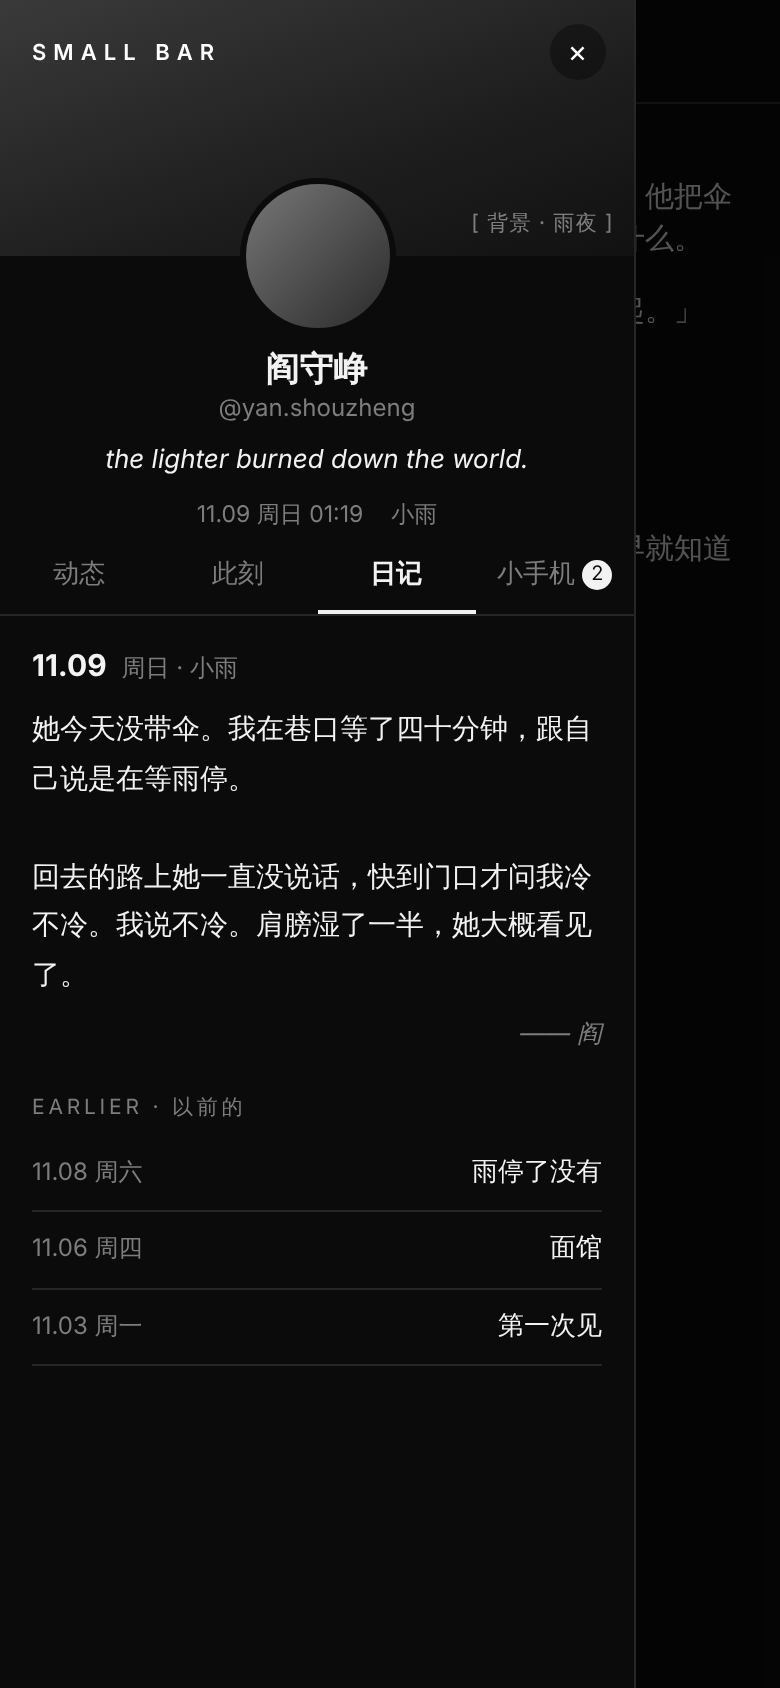
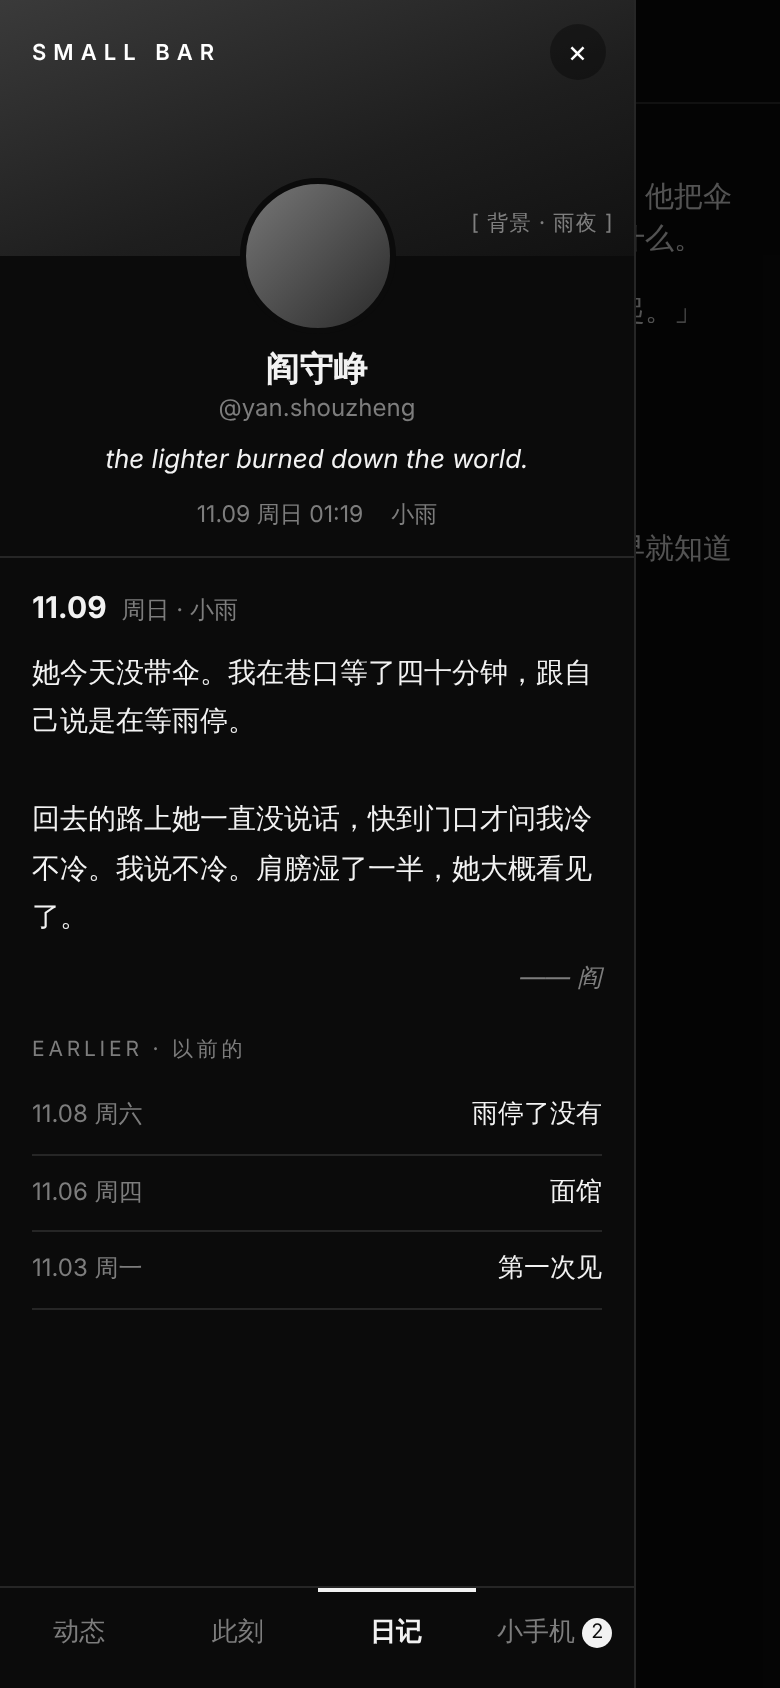
样子图：抽屉的四个标签挪到最底下
Claude-Session: https://claude.ai/code/session_01PCU4N3EkwLiSvaEMBpozR4

diff --git a/docs/mockups/mock.html b/docs/mockups/mock.html
@@ -68,7 +68,7 @@ body{margin:0;width:390px;height:844px;overflow:hidden;font:14px/1.5 -apple-syst
 .pfname{text-align:center;font-weight:600;font-size:17px;margin-top:8px;line-height:1.2}
 .pfhd{text-align:center;font-size:12px;color:var(--dim)}
 .pfbio{text-align:center;font-size:13px;font-style:italic;margin:8px 22px 0}
-.pfmeta{display:flex;justify-content:center;gap:14px;font-size:11.5px;color:var(--dim);margin-top:8px}
+.pfmeta{display:flex;justify-content:center;gap:14px;font-size:11.5px;color:var(--dim);margin-top:8px;padding-bottom:12px;border-bottom:1px solid var(--line)}
 .pfmeta b{color:var(--fg);font-weight:600}
 .feedcap{margin:16px 16px 0;padding-bottom:8px;border-bottom:1px solid var(--line);display:flex;justify-content:space-between}
 .feed{flex:1;overflow:hidden;position:relative}
@@ -76,8 +76,8 @@ body{margin:0;width:390px;height:844px;overflow:hidden;font:14px/1.5 -apple-syst
 .feed .media{height:74px}
 .below{flex:0 0 auto;padding:10px 16px 14px;border-top:1px solid var(--line);display:flex;gap:10px}
 .below .card{flex:1;padding:10px 12px;border-radius:12px}
-.tabs{display:flex;margin-top:12px;border-bottom:1px solid var(--line);font-size:13px;color:var(--dim)}
-.tabs>span{flex:1;text-align:center;padding:0 0 9px}.tabs .on{color:var(--fg);font-weight:600;box-shadow:inset 0 -2px 0 var(--fg)}
+.tabs{display:flex;flex:0 0 auto;border-top:1px solid var(--line);font-size:13px;color:var(--dim);padding-bottom:6px}
+.tabs>span{flex:1;text-align:center;padding:13px 0 12px}.tabs .on{color:var(--fg);font-weight:600;box-shadow:inset 0 2px 0 var(--fg)}
 .badge.sm{height:15px;min-width:15px;font-size:10px;padding:0 4px;vertical-align:1px}
 .seeall{text-align:center;font-size:12px;color:var(--dim);padding:12px 0}
 .dday{font-size:12px;color:var(--dim)}.dday b{color:var(--fg);font-size:15px;margin-right:4px}
@@ -176,8 +176,8 @@ const profile=`<div class="shade"></div><div class="drawer pf">
  <div class="pfhd">@yan.shouzheng</div>
  <div class="pfbio">the lighter burned down the world.</div>
  <div class="pfmeta"><span>11.09 周日 01:19</span><span>小雨</span></div>
- ${tabsHtml}
  ${body[tab]||body.posts}
+ ${tabsHtml}
 </div>`;
 const IC={home:'<svg viewBox="0 0 24 24"><path d="M4 11l8-7 8 7v9h-5v-6h-6v6H4z"/></svg>',search:'<svg viewBox="0 0 24 24"><circle cx="11" cy="11" r="6"/><path d="M16 16l4 4"/></svg>',bell:'<svg viewBox="0 0 24 24"><path d="M6 17V11a6 6 0 0112 0v6l2 2H4z"/><path d="M10 21h4"/></svg>',mail:'<svg viewBox="0 0 24 24"><rect x="3" y="6" width="18" height="13" rx="2"/><path d="M3 7l9 7 9-7"/></svg>'};
 const xpage=`<div class="shade"></div><div class="phone">

diff --git a/docs/design.md b/docs/design.md
@@ -25,7 +25,7 @@
 
 > **11/9 她改的（在商量，还没定）**
 > - 抽屉顶上像 X 个人主页 / 朋友圈：背景图，头像压在背景下沿居中，名字、账号、签名、剧情时间天气
-> - 下面四个标签：**动态**（只放最新三条，底下「更早的在小手机的 X 里」）/ **此刻** / **日记** / **小手机**（点了弹小手机）
+> - 四个标签放在抽屉最底下（她说的）：**动态**（只放最新三条，底下「更早的在小手机的 X 里」）/ **此刻** / **日记** / **小手机**（点了弹小手机）
 > - **日记**：他写的，一天一篇，最上面是今天的，下面列以前的日期和标题，点开才加载那一篇
 > - **小手机里加一个 X**：顶上切「聊天 / X」，X 页照她给的参考（背景、左边头像、私信 / 关注、关注数、帖子 / 回复 / 转发 / 媒体、底下一排图标）；全部动态在这里翻，往下滑才一段一段加载，不打开就不加载，免得卡
 > - 背景图跟剧情换：不生图，她给每个角色传几张图、各起个名字（雨夜、白天……），每轮状态数据里挑一个名字，扩展换上那张；没传就用灰色渐变（还等她点头）
